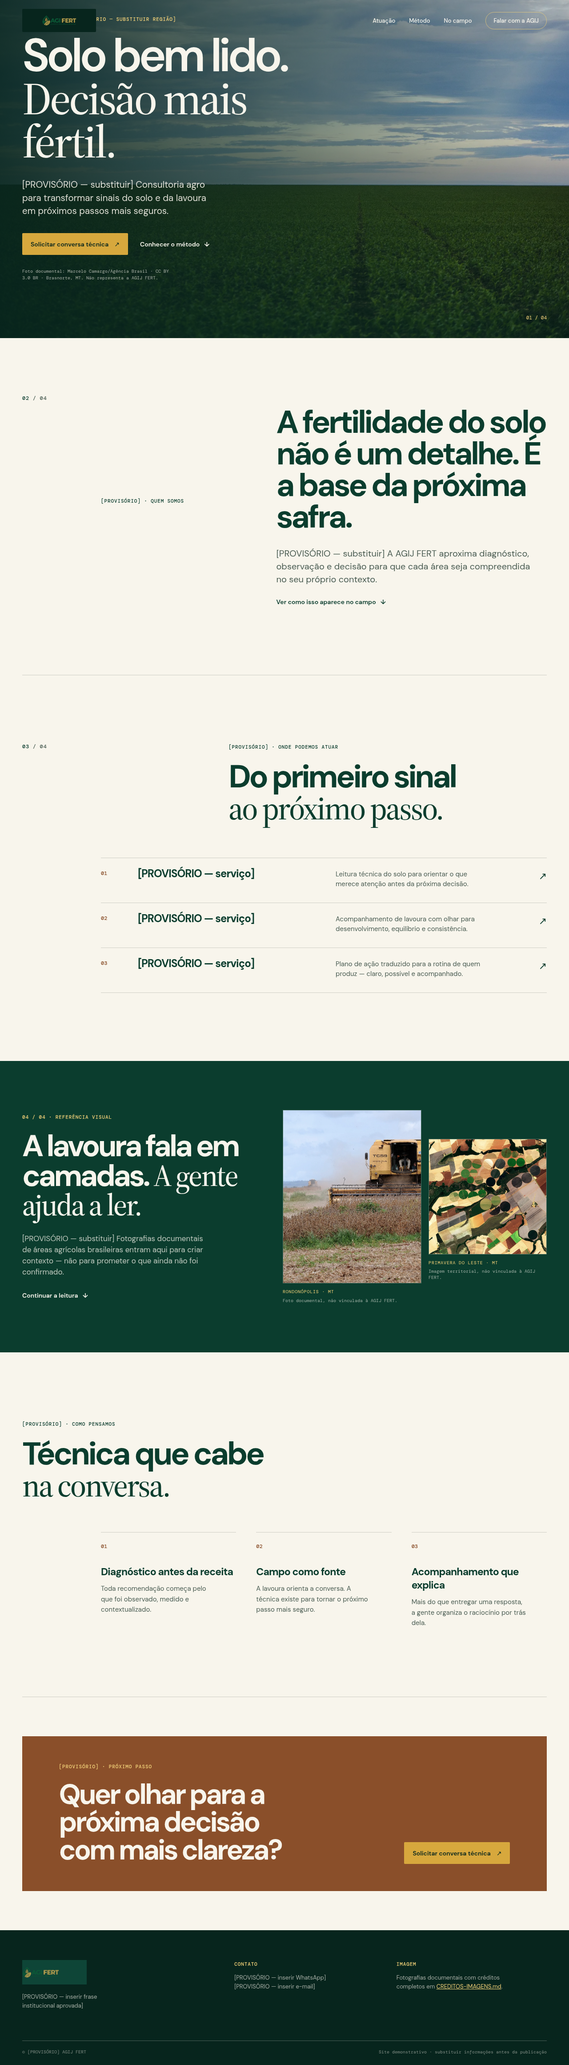
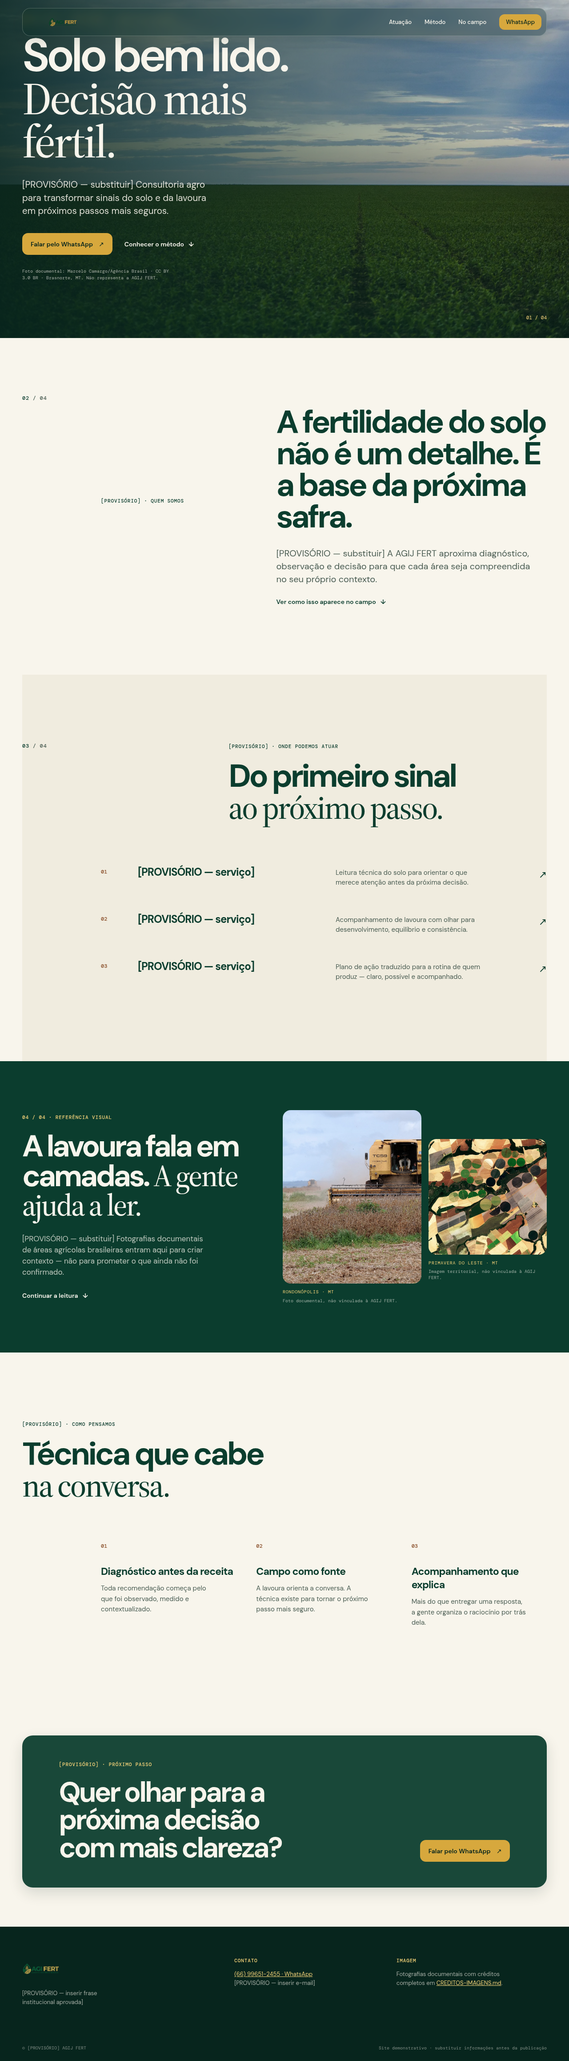
refine: add restrained liquid glass direction

diff --git a/src/styles.css b/src/styles.css
@@ -12,9 +12,10 @@
   --cream-100: #f0ecdf;
   --ink-950: #17221c;
   --ink-700: #4b5d53;
-  --line: rgba(23, 34, 28, 0.18);
-  --light-line: rgba(248, 245, 236, 0.28);
-  --shadow: 0 18px 60px rgba(7, 37, 29, 0.18);
+  --glass-surface: rgba(248, 245, 236, .12);
+  --glass-surface-light: rgba(248, 245, 236, .72);
+  --glass-border: rgba(248, 245, 236, .24);
+  --glass-shadow: 0 12px 32px rgba(7, 37, 29, .14);
   --serif: 'Source Serif 4', Georgia, serif;
   --sans: 'DM Sans', 'Avenir Next', 'Segoe UI', sans-serif;
   --mono: 'DM Mono', 'SFMono-Regular', Consolas, monospace;
@@ -36,34 +37,34 @@ button { cursor: pointer; }
 :focus-visible { outline: 3px solid var(--gold-500); outline-offset: 4px; }
 
 .shell { width: var(--shell); margin: 0 auto; }
-.section-pad { padding: clamp(88px, 12vw, 168px) 0; }
+.section-pad { padding: clamp(92px, 12vw, 168px) 0; }
 .eyebrow { display: flex; align-items: center; gap: 9px; margin: 0 0 25px; color: var(--green-900); font: 500 11px/1.3 var(--mono); letter-spacing: .08em; text-transform: uppercase; }
 .eyebrow.light { color: var(--gold-300); }
-.eyebrow-dot { width: 8px; height: 8px; display: inline-block; border-radius: 50%; background: var(--gold-500); }
+.eyebrow-dot { width: 7px; height: 7px; display: inline-block; border-radius: 50%; background: var(--gold-500); }
 .section-index { color: var(--green-900); font: 500 12px/1 var(--mono); letter-spacing: .06em; }
 .section-index span { color: var(--ink-700); }
 
-.site-header { position: absolute; z-index: 10; top: 0; left: 0; right: 0; width: var(--shell); margin: 0 auto; display: flex; align-items: center; justify-content: space-between; padding: 20px 0; color: var(--cream-50); }
-.brand { display: inline-flex; align-items: center; width: 166px; height: 52px; overflow: hidden; background: var(--green-950); border-radius: 2px; }
+.site-header { position: absolute; z-index: 10; top: 18px; left: 50%; width: var(--shell); transform: translateX(-50%); display: flex; align-items: center; justify-content: space-between; padding: 9px 11px 9px 15px; color: var(--cream-50); border: 1px solid var(--glass-border); border-radius: 18px; background: rgba(7, 37, 29, .3); box-shadow: var(--glass-shadow); backdrop-filter: blur(14px) saturate(120%); -webkit-backdrop-filter: blur(14px) saturate(120%); }
+.brand { display: inline-flex; align-items: center; width: 150px; height: 43px; overflow: hidden; border-radius: 10px; }
 .brand img { width: 100%; height: 100%; object-fit: contain; object-position: center; mix-blend-mode: screen; }
-.primary-nav { display: flex; align-items: center; gap: 31px; font: 500 13px/1 var(--sans); }
-.primary-nav a { opacity: .82; text-decoration: none; transition: opacity .25s ease, color .25s ease; }
+.primary-nav { display: flex; align-items: center; gap: 29px; font: 500 13px/1 var(--sans); }
+.primary-nav a { opacity: .86; text-decoration: none; transition: opacity .25s ease, color .25s ease; }
 .primary-nav a:hover { opacity: 1; color: var(--gold-300); }
-.nav-cta { border: 1px solid rgba(240, 207, 119, .7); border-radius: 99px; padding: 12px 17px; color: var(--cream-50); background: transparent; font-size: 13px; transition: background .25s ease, color .25s ease; }
-.nav-cta:hover { color: var(--green-950); background: var(--gold-300); }
+.nav-cta { border-radius: 12px; padding: 11px 15px; color: var(--green-950); background: var(--gold-500); font-size: 13px; transition: background .25s ease, transform .25s ease; }
+.nav-cta:hover { color: var(--green-950); background: var(--gold-300); transform: translateY(-1px); }
 .menu-toggle { display: none; }
 
 .hero { position: relative; min-height: min(760px, 92vh); display: flex; align-items: flex-end; overflow: hidden; color: var(--cream-50); background: var(--green-950); }
 .hero-media, .hero-shade { position: absolute; inset: 0; }
 .hero-media img { width: 100%; height: 100%; object-fit: cover; object-position: center 58%; }
-.hero-shade { background: linear-gradient(90deg, rgba(7, 37, 29, .9) 0%, rgba(7, 37, 29, .58) 45%, rgba(7, 37, 29, .08) 100%), linear-gradient(0deg, rgba(7, 37, 29, .72) 0%, transparent 58%); }
+.hero-shade { background: linear-gradient(90deg, rgba(7,37,29,.86) 0%, rgba(7,37,29,.48) 46%, rgba(7,37,29,.08) 100%), linear-gradient(0deg, rgba(7,37,29,.7) 0%, transparent 60%); }
 .hero-content { position: relative; z-index: 1; padding-bottom: clamp(62px, 10vw, 132px); }
 .hero h1 { max-width: 720px; margin: 0; font: 600 clamp(52px, 8.1vw, 114px)/.94 var(--sans); letter-spacing: -.07em; }
 .hero h1 em, h2 em { font-family: var(--serif); font-weight: 500; letter-spacing: -.04em; }
-.hero-lede { max-width: 430px; margin: 33px 0 0; color: rgba(248, 245, 236, .88); font-size: clamp(17px, 1.6vw, 21px); line-height: 1.45; }
+.hero-lede { max-width: 430px; margin: 33px 0 0; color: rgba(248,245,236,.88); font-size: clamp(17px, 1.6vw, 21px); line-height: 1.45; }
 .hero-actions { display: flex; align-items: center; gap: 27px; margin-top: 34px; }
-.button { display: inline-flex; justify-content: center; align-items: center; gap: 13px; min-height: 49px; padding: 14px 19px; border: 0; border-radius: 2px; font-weight: 600; font-size: 14px; transition: transform .25s ease, background .25s ease, color .25s ease, box-shadow .25s ease; }
-.button:hover { transform: translateY(-2px); box-shadow: 0 8px 20px rgba(7, 37, 29, .18); }
+.button { display: inline-flex; justify-content: center; align-items: center; gap: 13px; min-height: 49px; padding: 14px 19px; border: 0; border-radius: 13px; font-weight: 600; font-size: 14px; text-decoration: none; transition: transform .25s ease, background .25s ease, color .25s ease, box-shadow .25s ease; }
+.button:hover { transform: translateY(-2px); box-shadow: 0 8px 20px rgba(7,37,29,.18); }
 .button-gold { color: var(--green-950); background: var(--gold-500); }
 .button-gold:hover { background: var(--gold-300); }
 .button-green { color: var(--cream-50); background: var(--green-900); }
@@ -81,16 +82,16 @@ button { cursor: pointer; }
 .intro-grid h2, .section-heading h2, .principles-section h2, .cta-panel h2 { max-width: 690px; margin: 0; color: var(--green-900); font-size: clamp(38px, 5.6vw, 76px); line-height: .99; letter-spacing: -.065em; }
 .section-lede { max-width: 590px; margin: 33px 0 25px; color: var(--ink-700); font-size: 20px; line-height: 1.45; }
 
-.service-section { border-top: 1px solid var(--line); }
+.service-section { background: var(--cream-100); }
 .section-heading { display: grid; grid-template-columns: minmax(150px, 1fr) minmax(0, 2fr); column-gap: 9%; margin-bottom: 74px; }
-.service-list { margin-left: 15%; border-top: 1px solid var(--line); }
-.service-item { position: relative; display: grid; grid-template-columns: 55px minmax(180px, 1fr) minmax(240px, 1fr) 30px; align-items: start; gap: 28px; padding: 26px 0 30px; border-bottom: 1px solid var(--line); transition: padding .25s ease, background .25s ease; }
-.service-item:hover { padding-left: 15px; background: rgba(255,255,255,.32); }
+.service-list { margin-left: 15%; }
+.service-item { position: relative; display: grid; grid-template-columns: 55px minmax(180px, 1fr) minmax(240px, 1fr) 30px; align-items: start; gap: 28px; padding: 25px 0; }
+.service-item + .service-item { margin-top: 12px; }
 .service-number, .principle > span { color: var(--earth-700); font: 500 12px var(--mono); }
 .service-item h3 { margin: -4px 0 0; color: var(--green-900); font-size: 24px; line-height: 1.08; letter-spacing: -.04em; }
 .service-item p { max-width: 330px; margin: -1px 0 0; color: var(--ink-700); font-size: 15px; line-height: 1.5; }
-.service-arrow { justify-self: end; color: var(--green-900); font-size: 22px; transition: transform .25s ease; }
-.service-item:hover .service-arrow { transform: translate(3px, -3px); }
+.service-arrow { justify-self: end; color: var(--green-900); font-size: 22px; transition: transform .25s ease, color .25s ease; }
+.service-item:hover .service-arrow { color: var(--earth-700); transform: translate(3px, -3px); }
 
 .field-section { overflow: hidden; color: var(--cream-50); background: var(--green-900); }
 .field-layout { display: grid; grid-template-columns: 1fr 1.18fr; gap: 7%; align-items: center; padding-top: 110px; padding-bottom: 110px; }
@@ -98,44 +99,44 @@ button { cursor: pointer; }
 .field-copy > p:not(.eyebrow) { max-width: 410px; margin: 29px 0; color: rgba(248,245,236,.74); font-size: 17px; line-height: 1.48; }
 .field-gallery { display: grid; grid-template-columns: 1.08fr .92fr; gap: 16px; align-items: end; }
 .image-frame { margin: 0; }
-.image-frame img { display: block; width: 100%; height: 390px; object-fit: cover; border: 1px solid var(--light-line); filter: saturate(.88); }
+.image-frame img { display: block; width: 100%; height: 390px; object-fit: cover; border-radius: 18px; filter: saturate(.88); }
 .image-frame:nth-child(2) { margin-bottom: 52px; }
 .image-frame:nth-child(2) img { height: 260px; }
 .image-frame figcaption { display: flex; flex-direction: column; gap: 6px; padding-top: 12px; color: rgba(248,245,236,.6); font: 10px/1.35 var(--mono); }
 .image-frame figcaption span { color: var(--gold-300); text-transform: uppercase; letter-spacing: .08em; }
 
-.principles-section { border-bottom: 1px solid var(--line); }
+.principles-section { background: var(--cream-50); }
 .principles-section .section-heading { display: block; margin-bottom: 68px; }
 .principles-grid { display: grid; grid-template-columns: repeat(3, 1fr); gap: 45px; padding-left: 15%; }
-.principle { padding-top: 19px; border-top: 1px solid var(--line); }
+.principle { padding-top: 19px; }
 .principle h3 { margin: 33px 0 12px; color: var(--green-900); font-size: 23px; letter-spacing: -.04em; }
 .principle p { max-width: 260px; margin: 0; color: var(--ink-700); font-size: 15px; line-height: 1.55; }
 
-.cta-section { padding-top: 88px; padding-bottom: 88px; }
-.cta-panel { display: flex; align-items: end; justify-content: space-between; gap: 40px; padding: 61px 7%; color: var(--cream-50); background: var(--earth-700); }
+.cta-section { padding-top: 88px; padding-bottom: 88px; background: var(--cream-50); }
+.cta-panel { display: flex; align-items: end; justify-content: space-between; gap: 40px; padding: 58px 7%; color: var(--cream-50); border-radius: 24px; background: rgba(11,61,46,.94); box-shadow: var(--glass-shadow); }
 .cta-panel h2 { max-width: 560px; color: var(--cream-50); font-size: clamp(37px, 5vw, 63px); }
 
 .site-footer { color: var(--cream-50); background: var(--green-950); }
 .footer-grid { display: grid; grid-template-columns: 1.4fr 1fr 1.2fr; gap: 7%; padding-top: 67px; padding-bottom: 55px; }
-.footer-logo { width: 145px; max-height: 55px; object-fit: contain; object-position: left center; mix-blend-mode: screen; background: var(--green-950); }
+.footer-logo { width: 145px; max-height: 55px; object-fit: contain; object-position: left center; mix-blend-mode: screen; }
 .footer-note, .footer-grid p:not(.footer-label) { max-width: 240px; color: rgba(248,245,236,.64); font-size: 13px; line-height: 1.55; }
 .footer-label { margin: 2px 0 14px; color: var(--gold-300); font: 500 11px var(--mono); text-transform: uppercase; letter-spacing: .08em; }
 .footer-grid a { color: var(--gold-300); }
-.footer-bottom { display: flex; justify-content: space-between; gap: 20px; padding: 18px 0 23px; border-top: 1px solid var(--light-line); color: rgba(248,245,236,.48); font: 10px var(--mono); }
+.footer-bottom { display: flex; justify-content: space-between; gap: 20px; padding: 18px 0 23px; color: rgba(248,245,236,.48); font: 10px var(--mono); }
 
-.modal-backdrop { position: fixed; inset: 0; z-index: 30; display: grid; place-items: center; padding: 20px; background: rgba(7,37,29,.7); backdrop-filter: blur(8px); }
-.contact-modal { position: relative; width: min(100%, 515px); max-height: min(760px, calc(100vh - 40px)); overflow: auto; padding: 42px; background: var(--cream-50); box-shadow: var(--shadow); }
+.modal-backdrop { position: fixed; inset: 0; z-index: 30; display: grid; place-items: center; padding: 20px; background: rgba(7,37,29,.7); backdrop-filter: blur(8px); -webkit-backdrop-filter: blur(8px); }
+.contact-modal { position: relative; width: min(100%, 515px); max-height: min(760px, calc(100vh - 40px)); overflow: auto; padding: 42px; border-radius: 24px; background: var(--glass-surface-light); box-shadow: var(--glass-shadow); backdrop-filter: blur(18px); -webkit-backdrop-filter: blur(18px); }
 .modal-close { position: absolute; top: 17px; right: 19px; border: 0; color: var(--green-900); background: none; font-size: 28px; line-height: 1; }
 .contact-modal h2 { max-width: 410px; margin: 0; color: var(--green-900); font: 600 36px/.99 var(--sans); letter-spacing: -.06em; }
 .modal-lede { margin: 20px 0 28px; color: var(--ink-700); font-size: 15px; line-height: 1.45; }
 .contact-modal form { display: grid; gap: 8px; }
 .contact-modal label { margin-top: 8px; color: var(--ink-950); font: 500 12px var(--mono); text-transform: uppercase; letter-spacing: .04em; }
 .contact-modal label span { color: var(--earth-700); }
-.contact-modal input:not([type="checkbox"]), .contact-modal select { width: 100%; min-height: 47px; padding: 11px 12px; border: 1px solid var(--line); border-radius: 1px; color: var(--ink-950); background: white; }
+.contact-modal input:not([type="checkbox"]), .contact-modal select { width: 100%; min-height: 47px; padding: 11px 12px; border: 1px solid rgba(23,34,28,.18); border-radius: 11px; color: var(--ink-950); background: rgba(255,255,255,.55); }
 .contact-modal input:not([type="checkbox"]):focus, .contact-modal select:focus { border-color: var(--green-700); outline: 3px solid rgba(62,139,95,.22); }
 .checkbox-label { display: flex; align-items: center; gap: 8px; margin: 12px 0 0; text-transform: none !important; letter-spacing: 0 !important; font-family: var(--sans) !important; font-weight: 400 !important; }
 .form-submit { width: 100%; margin-top: 16px; }
-.form-error { margin: 12px 0 0; padding: 11px 12px; color: #7c241d; background: #f8d8cf; font-size: 13px; }
+.form-error { margin: 12px 0 0; padding: 11px 12px; border-radius: 10px; color: #7c241d; background: #f8d8cf; font-size: 13px; }
 .success-state { padding-top: 20px; }
 .state-mark { display: grid; place-items: center; width: 44px; height: 44px; margin-bottom: 25px; border-radius: 50%; color: var(--green-950); background: var(--gold-500); font-weight: 700; }
 .success-state h2 { margin-bottom: 18px; }
@@ -143,15 +144,15 @@ button { cursor: pointer; }
 
 @media (max-width: 760px) {
   :root { --shell: min(100% - 36px, 600px); }
-  .site-header { padding: 17px 0; }
-  .brand { width: 138px; height: 45px; }
+  .site-header { top: 12px; padding: 7px 9px 7px 12px; border-radius: 15px; }
+  .brand { width: 132px; height: 42px; }
   .menu-toggle { display: inline-flex; align-items: center; gap: 10px; border: 0; padding: 11px 0 11px 10px; color: var(--cream-50); background: none; font: 500 12px var(--mono); text-transform: uppercase; letter-spacing: .06em; }
   .menu-icon { display: grid; gap: 5px; }
   .menu-icon i { width: 21px; height: 1px; display: block; background: currentColor; }
-  .primary-nav { position: absolute; top: 79px; left: 0; right: 0; display: none; flex-direction: column; align-items: stretch; gap: 0; padding: 12px; color: var(--green-950); background: var(--cream-50); box-shadow: var(--shadow); }
+  .primary-nav { position: absolute; top: 67px; left: 0; right: 0; display: none; flex-direction: column; align-items: stretch; gap: 0; padding: 12px; color: var(--green-950); border: 1px solid rgba(248,245,236,.25); border-radius: 15px; background: rgba(248,245,236,.88); box-shadow: var(--glass-shadow); backdrop-filter: blur(16px); -webkit-backdrop-filter: blur(16px); }
   .primary-nav.is-open { display: flex; }
-  .primary-nav a { padding: 15px 13px; border-bottom: 1px solid var(--line); opacity: 1; }
-  .nav-cta { margin-top: 12px; color: var(--green-950); border-color: var(--green-900); }
+  .primary-nav a { padding: 14px 10px; opacity: 1; }
+  .nav-cta { margin-top: 10px; color: var(--green-950); text-align: center; }
   .hero { min-height: 760px; }
   .hero-media img { object-position: 60% center; }
   .hero-shade { background: linear-gradient(0deg, rgba(7,37,29,.94) 3%, rgba(7,37,29,.36) 77%, rgba(7,37,29,.12) 100%); }
@@ -183,13 +184,13 @@ button { cursor: pointer; }
   .principle { margin-bottom: 31px; }
   .principle h3 { margin-top: 20px; }
   .cta-section { padding-top: 44px; padding-bottom: 44px; }
-  .cta-panel { display: block; padding: 42px 24px; }
+  .cta-panel { display: block; padding: 42px 24px; border-radius: 20px; }
   .cta-panel .button { margin-top: 31px; }
   .footer-grid { display: block; padding-top: 55px; padding-bottom: 39px; }
   .footer-grid > div { margin-bottom: 32px; }
   .footer-bottom { display: block; padding-bottom: 18px; }
   .footer-bottom span { display: block; margin-top: 8px; }
-  .contact-modal { padding: 35px 23px 27px; }
+  .contact-modal { padding: 35px 23px 27px; border-radius: 20px; }
 }
 
 @media (prefers-reduced-motion: reduce) {

diff --git a/src/App.jsx b/src/App.jsx
@@ -3,6 +3,8 @@ import Header from './components/Header.jsx'
 import Hero from './components/Hero.jsx'
 import { images } from './assets.js'
 
+const whatsappUrl = 'https://wa.me/5566996512455?text=Ol%C3%A1%21%20Vim%20pelo%20site%20da%20AGIJ%20FERT%20e%20gostaria%20de%20saber%20mais%20sobre%20a%20consultoria%20para%20minha%20fazenda%20ou%20empresa.'
+
 const services = [
   { number: '01', title: '[PROVISÓRIO — serviço]', text: 'Leitura técnica do solo para orientar o que merece atenção antes da próxima decisão.' },
   { number: '02', title: '[PROVISÓRIO — serviço]', text: 'Acompanhamento de lavoura com olhar para desenvolvimento, equilíbrio e consistência.' },
@@ -99,9 +101,9 @@ export default function App() {
 
   return (
     <div className="app-shell">
-      <Header onContact={openModal} />
+      <Header whatsappUrl={whatsappUrl} />
       <main>
-        <Hero onContact={openModal} />
+        <Hero whatsappUrl={whatsappUrl} />
         <section className="intro-section shell section-pad" id="atuacao" aria-labelledby="intro-title">
           <div className="section-index">02 <span>/ 04</span></div>
           <div className="intro-grid">
@@ -136,9 +138,9 @@ export default function App() {
           <div className="principles-grid">{principles.map(([number, title, text]) => <article className="principle" key={number}><span>{number}</span><h3>{title}</h3><p>{text}</p></article>)}</div>
         </section>
 
-        <section className="cta-section shell section-pad"><div className="cta-panel"><div><p className="eyebrow light">[PROVISÓRIO] · Próximo passo</p><h2>Quer olhar para a próxima decisão com mais clareza?</h2></div><button className="button button-gold" type="button" onClick={openModal}>Solicitar conversa técnica <span aria-hidden="true">↗</span></button></div></section>
+        <section className="cta-section shell section-pad"><div className="cta-panel"><div><p className="eyebrow light">[PROVISÓRIO] · Próximo passo</p><h2>Quer olhar para a próxima decisão com mais clareza?</h2></div><a className="button button-gold" href={whatsappUrl} target="_blank" rel="noreferrer">Falar pelo WhatsApp <span aria-hidden="true">↗</span></a></div></section>
       </main>
-      <footer className="site-footer"><div className="shell footer-grid"><div><img className="footer-logo" src={images.logo} alt="AGIJ FERT" /><p className="footer-note">[PROVISÓRIO — inserir frase institucional aprovada]</p></div><div><p className="footer-label">Contato</p><p>[PROVISÓRIO — inserir WhatsApp]<br />[PROVISÓRIO — inserir e-mail]</p></div><div><p className="footer-label">Imagem</p><p>Fotografias documentais com créditos completos em <a href="/CREDITOS-IMAGENS.md">CREDITOS-IMAGENS.md</a>.</p></div></div><div className="shell footer-bottom"><span>© [PROVISÓRIO] AGIJ FERT</span><span>Site demonstrativo · substituir informações antes da publicação</span></div></footer>
+      <footer className="site-footer"><div className="shell footer-grid"><div><img className="footer-logo" src={images.logo} alt="AGIJ FERT" /><p className="footer-note">[PROVISÓRIO — inserir frase institucional aprovada]</p></div><div><p className="footer-label">Contato</p><p><a href={whatsappUrl} target="_blank" rel="noreferrer">(66) 99651-2455 · WhatsApp</a><br />[PROVISÓRIO — inserir e-mail]</p></div><div><p className="footer-label">Imagem</p><p>Fotografias documentais com créditos completos em <a href="/CREDITOS-IMAGENS.md">CREDITOS-IMAGENS.md</a>.</p></div></div><div className="shell footer-bottom"><span>© [PROVISÓRIO] AGIJ FERT</span><span>Site demonstrativo · substituir informações antes da publicação</span></div></footer>
       {modalOpen && <ContactModal onClose={closeModal} />}
     </div>
   )

diff --git a/src/components/Hero.jsx b/src/components/Hero.jsx
@@ -1,6 +1,6 @@
 import { images } from '../assets.js'
 
-export default function Hero({ onContact }) {
+export default function Hero({ whatsappUrl }) {
   return (
     <section className="hero" id="inicio" aria-labelledby="hero-title">
       <div className="hero-media" aria-hidden="true">
@@ -12,7 +12,7 @@ export default function Hero({ onContact }) {
         <h1 id="hero-title">Solo bem lido.<br /><em>Decisão mais fértil.</em></h1>
         <p className="hero-lede">[PROVISÓRIO — substituir] Consultoria agro para transformar sinais do solo e da lavoura em próximos passos mais seguros.</p>
         <div className="hero-actions">
-          <button className="button button-gold" type="button" onClick={onContact}>Solicitar conversa técnica <span aria-hidden="true">↗</span></button>
+          <a className="button button-gold" href={whatsappUrl} target="_blank" rel="noreferrer">Falar pelo WhatsApp <span aria-hidden="true">↗</span></a>
           <a className="text-link light-link" href="#metodo">Conhecer o método <span aria-hidden="true">↓</span></a>
         </div>
         <p className="image-note">Foto documental: Marcelo Camargo/Agência Brasil · CC BY 3.0 BR · Brasnorte, MT. Não representa a AGIJ FERT.</p>

diff --git a/src/components/Header.jsx b/src/components/Header.jsx
@@ -1,7 +1,7 @@
 import { useState } from 'react'
 import { images } from '../assets.js'
 
-export default function Header({ onContact }) {
+export default function Header({ whatsappUrl }) {
   const [menuOpen, setMenuOpen] = useState(false)
 
   const closeMenu = () => setMenuOpen(false)
@@ -25,7 +25,7 @@ export default function Header({ onContact }) {
         <a href="#atuacao" onClick={closeMenu}>Atuação</a>
         <a href="#metodo" onClick={closeMenu}>Método</a>
         <a href="#campo" onClick={closeMenu}>No campo</a>
-        <button className="nav-cta" type="button" onClick={() => { closeMenu(); onContact() }}>Falar com a AGIJ</button>
+        <a className="nav-cta" href={whatsappUrl} target="_blank" rel="noreferrer" onClick={closeMenu}>WhatsApp</a>
       </nav>
     </header>
   )

diff --git a/docs/checklist-qualidade.md b/docs/checklist-qualidade.md
@@ -6,23 +6,23 @@
 - Verificação da autoria, localização e licença de quatro imagens brasileiras; cópias locais baixadas e convertidas para WebP.
 - Registro da logo fornecida pelo cliente e upload da cópia otimizada para o metadado do projeto.
 - Diagnósticos de JavaScript, CSS e JSON registrados no WebDev antes da implementação.
-- `npm install` concluído sem vulnerabilidades reportadas e `npm run build` concluído com sucesso.
-- Preview iniciado em `0.0.0.0:3000`.
+- `npm install` concluído sem vulnerabilidades reportadas e `npm run build` concluído com sucesso após o refinamento.
+- Preview reiniciado com as variáveis sincronizadas em `0.0.0.0:3000`.
 - `GET /` retornou 200, `GET /manus-routes.json` retornou JSON válido e os ativos PNG/WebP retornaram 200 com content-type correto.
-- Capturas desktop 1280×900 e mobile 390×844 realizadas; recortes, hierarquia, CTA e rodapé revisados.
-- Modal aberto pelo botão principal; foco inicial observado no primeiro campo; `Escape` e botão de fechar estão implementados no código.
-- Envio vazio mostrou mensagem de validação; envio preenchido mostrou estado de sucesso demonstrativo.
-- Console do navegador confirmou um único `h1`, ausência de overflow horizontal em 1280px e carregamento completo dos assets após rolagem.
-- A preferência `prefers-reduced-motion` está implementada em CSS, mas a execução com a preferência ativada ainda precisa ser repetida em um navegador configurado para isso.
+- Capturas desktop 1280×900 e mobile 390×844 realizadas; a versão nova foi comparada com a anterior.
+- Revisão visual confirmou menos bordas e divisórias, ausência de diagramas decorativos, uso pontual de vidro no header/CTA/menu e fotografias sem molduras fortes.
+- Quatro links de WhatsApp foram verificados no DOM com o número `5566996512455` e a mensagem codificada solicitada.
+- Console do navegador confirmou um único `h1`, ausência de overflow horizontal em 1280px e caminhos estáticos compatíveis com subpastas.
+- `prefers-reduced-motion` permanece implementado em CSS; hover, transições e scroll suave são reduzidos quando a preferência está ativa.
 
 ## Verificações pendentes
 
-- Captura e interação direta do menu mobile em 390px.
+- Teste manual do menu mobile em viewport interativo real, além da captura mobile e da verificação do estado React.
 - Contraste real com ferramenta automatizada; a documentação WCAG é critério, não prova de teste executado.
 - Teste de `prefers-reduced-motion` com a preferência do sistema efetivamente ativa.
 - Verificação de todos os caminhos em um domínio GitHub Pages real e subpasta real.
 - Confirmação do cliente sobre licenças e atribuições antes da publicação comercial.
-- Substituição de todos os textos, serviços, contatos e região marcados como provisórios.
+- Substituição de todos os textos, serviços, região, e-mail e frase institucional marcados como provisórios.
 
 ## Critérios de aceitação
 

diff --git a/plan.md b/plan.md
@@ -6,8 +6,8 @@ A AGIJ FERT será apresentada como uma empresa de consultoria agronômica e fert
 
 - **Público:** produtores e equipes técnicas do agronegócio que precisam tomar decisões melhores sobre solo, lavoura e manejo.
 - **Objetivo:** explicar a atuação da AGIJ FERT com clareza, mostrar uma relação visual direta com o agro brasileiro e gerar um contato qualificado.
-- **Ação principal provisória:** solicitar uma conversa técnica.
-- **Direção visual:** campo brasileiro, solo, folhas, textura e leitura técnica; usar a logo fornecida como fonte de cor e identidade.
+- **Ação principal:** abrir o WhatsApp oficial com a mensagem: “Olá! Vim pelo site da AGIJ FERT e gostaria de saber mais sobre a consultoria para minha fazenda ou empresa.”
+- **Direção visual:** campo brasileiro, solo, folhas, textura e leitura técnica; usar a logo fornecida como fonte de cor e identidade, refinada para uma estética Liquid Glass contida.
 - **Restrições:** fotografias reais, não geradas por IA; nenhuma foto deve ser apresentada como pertencente à AGIJ FERT ou a seus clientes/equipe; não usar máquinas como foco principal; não comprar imagens nem contratar serviços; todas as origens, autores, licenças e localizações verificadas devem estar em `CREDITOS-IMAGENS.md`.
 
 ## Curadoria de imagens já verificada
@@ -25,7 +25,8 @@ A identidade usa verde profundo e dourado presentes na logo, com solo-terra e br
 - **Princípios:** evidência antes de promessa; proximidade com a lavoura; leitura técnica sem frieza; espaço para a fotografia respirar.
 - **Cores:** `#0B3D2E` como verde estrutural; `#D7A83D` como dourado de ação; `#8A4F2A` como terra auxiliar; `#F5F1E8` como fundo claro; `#17221C` como texto.
 - **Tipografia:** sans-serif de alta legibilidade para interface e serif discreta apenas em chamadas editoriais; metadados e créditos em mono/sans compacta.
-- **Assinaturas:** régua vertical verde, marcações de campo e mapas/linhas de plantio desenhados em SVG próprio; nunca sobrepor gráficos que distorçam as fotografias.
+- **Assinaturas:** cabeçalho flutuante translúcido, CTA final com profundidade sutil e fotografias amplas; não usar diagramas decorativos, linhas de conexão ou caixas repetidas.
+- **Liquid Glass:** reservar `backdrop-filter` para header, menu mobile e CTA final; usar superfícies translúcidas pontuais, contornos quase imperceptíveis, sombra leve e fallback opaco legível.
 - **Motion:** transições curtas para revelar conteúdo e navegação; sem parallax obrigatório; `prefers-reduced-motion` remove deslocamentos e mantém conteúdo visível.
 - **Logo:** usar o arquivo fornecido, com variações de fundo testadas no layout; não redesenhar símbolo, tipografia ou proporções.
 

diff --git a/TODO.md b/TODO.md
@@ -20,13 +20,15 @@
 - [x] A página inclui hover, foco visível, menu mobile no código, modal demonstrativo, validação, sucesso e falha simulável.
 - [x] A página respeita `prefers-reduced-motion`, evita overflow horizontal no viewport testado e preserva foco inicial no modal.
 - [x] A página declara a rota `/` em `public/manus-routes.json` e usa `base: './'` no build para subpastas.
+- [x] Refinar a direção para Liquid Glass contido: header e menu translúcidos, CTA final com profundidade sutil, menos bordas/divisórias e nenhuma decoração em diagrama.
+- [x] Manter o botão principal, header, CTA final e contato do rodapé ligados ao WhatsApp `(66) 99651-2455` com a mensagem fornecida.
 
 ## 3. Revisão e entrega
 
 - [x] Configurar diagnósticos do projeto antes da primeira implementação.
 - [x] Rodar build e checagens disponíveis; corrigir o erro de chave duplicada encontrado no primeiro manifesto.
 - [x] Capturar desktop e mobile e revisar recortes, carregamento, contraste visual e legibilidade das fotografias.
-- [x] Verificar modal, foco inicial, validação, sucesso e carregamento lazy das imagens.
+- [x] Verificar links de WhatsApp, carregamento lazy das imagens, âncoras, ausência de overflow e caminhos estáticos.
 - [x] Registrar testes realizados, problemas corrigidos e verificações pendentes em `docs/checklist-qualidade.md`.
 - [ ] Testar menu mobile diretamente em viewport interativo, ativar `prefers-reduced-motion` no navegador e validar contraste com ferramenta automatizada.
 - [ ] Salvar checkpoint com os arquivos intencionais no repositório canônico; não publicar sem autorização explícita.
